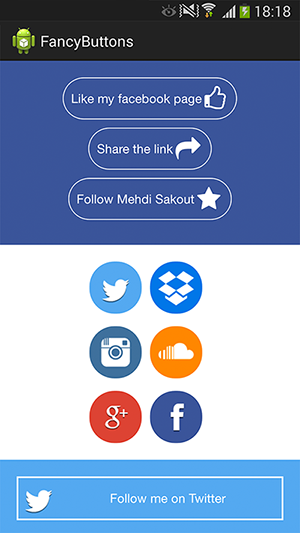
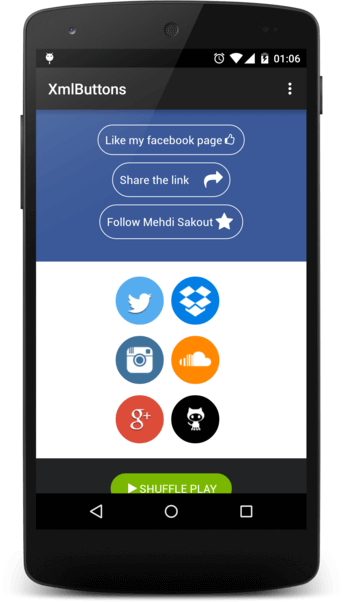
Added new screenshots Updated sample project to account for changes in library Updated README.md to reflect new screenshots and slightly modified code for programmatically created Facebook button

diff --git a/samples/src/main/java/mehdi/sakout/fancybuttons/samples/ProgramButtons.java b/samples/src/main/java/mehdi/sakout/fancybuttons/samples/ProgramButtons.java
@@ -1,17 +1,18 @@
 package mehdi.sakout.fancybuttons.samples;
 
 import android.graphics.Color;
-import android.support.v7.app.ActionBarActivity;
 import android.os.Bundle;
+import android.support.v7.app.AppCompatActivity;
 import android.view.Menu;
 import android.view.MenuItem;
 import android.view.ViewGroup;
 import android.widget.LinearLayout;
 
 import mehdi.sakout.fancybuttons.FancyButton;
+import mehdi.sakout.fancybuttons.Utils;
 
 
-public class ProgramButtons extends ActionBarActivity {
+public class ProgramButtons extends AppCompatActivity {
 
     @Override
     protected void onCreate(Bundle savedInstanceState) {
@@ -24,9 +25,11 @@ public class ProgramButtons extends ActionBarActivity {
         facebookLoginBtn.setBackgroundColor(Color.parseColor("#3b5998"));
         facebookLoginBtn.setFocusBackgroundColor(Color.parseColor("#5474b8"));
         facebookLoginBtn.setTextSize(17);
-        facebookLoginBtn.setRadius(5);
+        facebookLoginBtn.setRadius(Utils.DptoPx(this, 3));
+        facebookLoginBtn.setPadding(Utils.DptoPx(this, 15), Utils.DptoPx(this, 15), Utils.DptoPx(this, 15), Utils.DptoPx(this, 15));
         facebookLoginBtn.setIconResource("\uf082");
         facebookLoginBtn.setIconPosition(FancyButton.POSITION_LEFT);
+        facebookLoginBtn.setIconPadding(0, 0, 20, 0);
         facebookLoginBtn.setFontIconSize(30);
 
         FancyButton foursquareBtn = new FancyButton(this);
@@ -47,14 +50,14 @@ public class ProgramButtons extends ActionBarActivity {
         installBtn.setRadius(5);
         installBtn.setIconPadding(0,30,0,0);
 
-        FancyButton signupBtn = new FancyButton(this);
-        signupBtn.setText("Repost the song");
-        signupBtn.setIconResource(R.drawable.soundcloud);
-        signupBtn.setBackgroundColor(Color.parseColor("#ff8800"));
-        signupBtn.setFocusBackgroundColor(Color.parseColor("#ffa43c"));
-        signupBtn.setTextSize(20);
-        signupBtn.setCustomTextFont("robotothin.ttf");
-        signupBtn.setIconPadding(10,0,10,0);
+        FancyButton soundcloudBtn = new FancyButton(this);
+        soundcloudBtn.setText("Repost the song");
+        soundcloudBtn.setIconResource(R.drawable.soundcloud);
+        soundcloudBtn.setBackgroundColor(Color.parseColor("#ff8800"));
+        soundcloudBtn.setFocusBackgroundColor(Color.parseColor("#ffa43c"));
+        soundcloudBtn.setTextSize(20);
+        soundcloudBtn.setCustomTextFont("robotothin.ttf");
+        soundcloudBtn.setIconPadding(10, 0, 10, 0);
 
         LinearLayout.LayoutParams layoutParams = new LinearLayout.LayoutParams(ViewGroup.LayoutParams.WRAP_CONTENT, ViewGroup.LayoutParams.WRAP_CONTENT);
         layoutParams.setMargins(0,0,0,10);
@@ -63,7 +66,7 @@ public class ProgramButtons extends ActionBarActivity {
         container.addView(facebookLoginBtn,layoutParams);
         container.addView(foursquareBtn,layoutParams);
         container.addView(installBtn,layoutParams);
-        container.addView(signupBtn,layoutParams);
+        container.addView(soundcloudBtn,layoutParams);
 
     }
 

diff --git a/fancybuttons_library/src/main/java/mehdi/sakout/fancybuttons/Utils.java b/fancybuttons_library/src/main/java/mehdi/sakout/fancybuttons/Utils.java
@@ -11,4 +11,12 @@ public class Utils {
 	public static int SptoPx(final Context context, final float sp) {
 		return Math.round(sp * context.getResources().getDisplayMetrics().scaledDensity);
 	}
+
+	public static int PxToDp(final Context context, final float px) {
+		return Math.round(px / context.getResources().getDisplayMetrics().density);
+	}
+
+	public static int DptoPx(final Context context, final float dp) {
+		return Math.round(dp * context.getResources().getDisplayMetrics().density);
+	}
 }

diff --git a/README.md b/README.md
@@ -1,6 +1,6 @@
 # FancyButtons
 
-![FancyButtons Android](https://raw.github.com/medyo/fancybuttons/master/screenshots/fancy.png)![FancyButtons Android](/screenshots/fancy2.png)
+![FancyButtons Android](/screenshots/fancy.png)![FancyButtons Android](/screenshots/fancy2.png)![FancyButtons Android](/screenshots/fancy3.png)
 
 #### I always found some difficulties to make great Android buttons, since i need to override everything or make lot of drawables files to handle focus, pressed and normal state. For that reason, i made Fancy Buttons, to make this task much easier.
 
@@ -82,36 +82,38 @@
 ![FancyButton Spotify](https://raw.github.com/medyo/fancybuttons/master/screenshots/spotify-button.png)  
 
 	<mehdi.sakout.fancybuttons.FancyButton
-	android:id="@+id/btn_spotify"
-	android:layout_width="wrap_content"
-	android:layout_height="wrap_content"
-	android:paddingBottom="10dp"
-	android:paddingLeft="20dp"
-	android:paddingRight="20dp"
-	android:paddingTop="10dp"
-	fancy:fb_borderColor="#FFFFFF"
-	fancy:fb_borderWidth="1dp"
-	fancy:fb_defaultColor="#7ab800"
-	fancy:fb_focusColor="#9bd823"
-	fancy:fb_fontIconResource="&#xf04b;"
-	fancy:fb_iconPosition="left"
-	fancy:fb_radius="30dp"
-	fancy:fb_text="SHUFFLE PLAY"
-	fancy:fb_textColor="#FFFFFF" />
+		android:id="@+id/btn_spotify"
+		android:layout_width="wrap_content"
+		android:layout_height="wrap_content"
+		android:paddingBottom="10dp"
+		android:paddingLeft="20dp"
+		android:paddingRight="20dp"
+		android:paddingTop="10dp"
+		fancy:fb_borderColor="#FFFFFF"
+		fancy:fb_borderWidth="1dp"
+		fancy:fb_defaultColor="#7ab800"
+		fancy:fb_focusColor="#9bd823"
+		fancy:fb_fontIconResource="&#xf04b;"
+		fancy:fb_iconPosition="left"
+		fancy:fb_radius="30dp"
+		fancy:fb_text="SHUFFLE PLAY"
+		fancy:fb_textColor="#FFFFFF" />
 
 **2 - Facebook Button**
 
 ![FancyButton Facebook](https://raw.github.com/medyo/fancybuttons/master/screenshots/facebook-button.png)  
 
     FancyButton facebookLoginBtn = new FancyButton(this);
-    facebookLoginBtn.setText("Login with Facebook");
-    facebookLoginBtn.setBackgroundColor(Color.parseColor("#3b5998"));
-    facebookLoginBtn.setFocusBackgroundColor(Color.parseColor("#5474b8"));
-    facebookLoginBtn.setTextSize(17);
-    facebookLoginBtn.setRadius(5);
-    facebookLoginBtn.setIconResource("\uf082");
-    facebookLoginBtn.setIconPosition(FancyButton.POSITION_LEFT);
-    facebookLoginBtn.setFontIconSize(30);
+	facebookLoginBtn.setText("Login with Facebook");
+	facebookLoginBtn.setBackgroundColor(Color.parseColor("#3b5998"));
+	facebookLoginBtn.setFocusBackgroundColor(Color.parseColor("#5474b8"));
+	facebookLoginBtn.setTextSize(17);
+	facebookLoginBtn.setRadius(Utils.DptoPx(this, 3));
+	facebookLoginBtn.setPadding(Utils.DptoPx(this, 15), Utils.DptoPx(this, 15), Utils.DptoPx(this, 15), Utils.DptoPx(this, 15));
+	facebookLoginBtn.setIconResource("\uf082");
+	facebookLoginBtn.setIconPosition(FancyButton.POSITION_LEFT);
+	facebookLoginBtn.setIconPadding(0, 0, 20, 0);
+	facebookLoginBtn.setFontIconSize(30);
 
 See the [example project](https://github.com/medyo/fancybuttons/tree/master/samples/src/main/java/mehdi/sakout/fancybuttons/samples) for more samples
 
